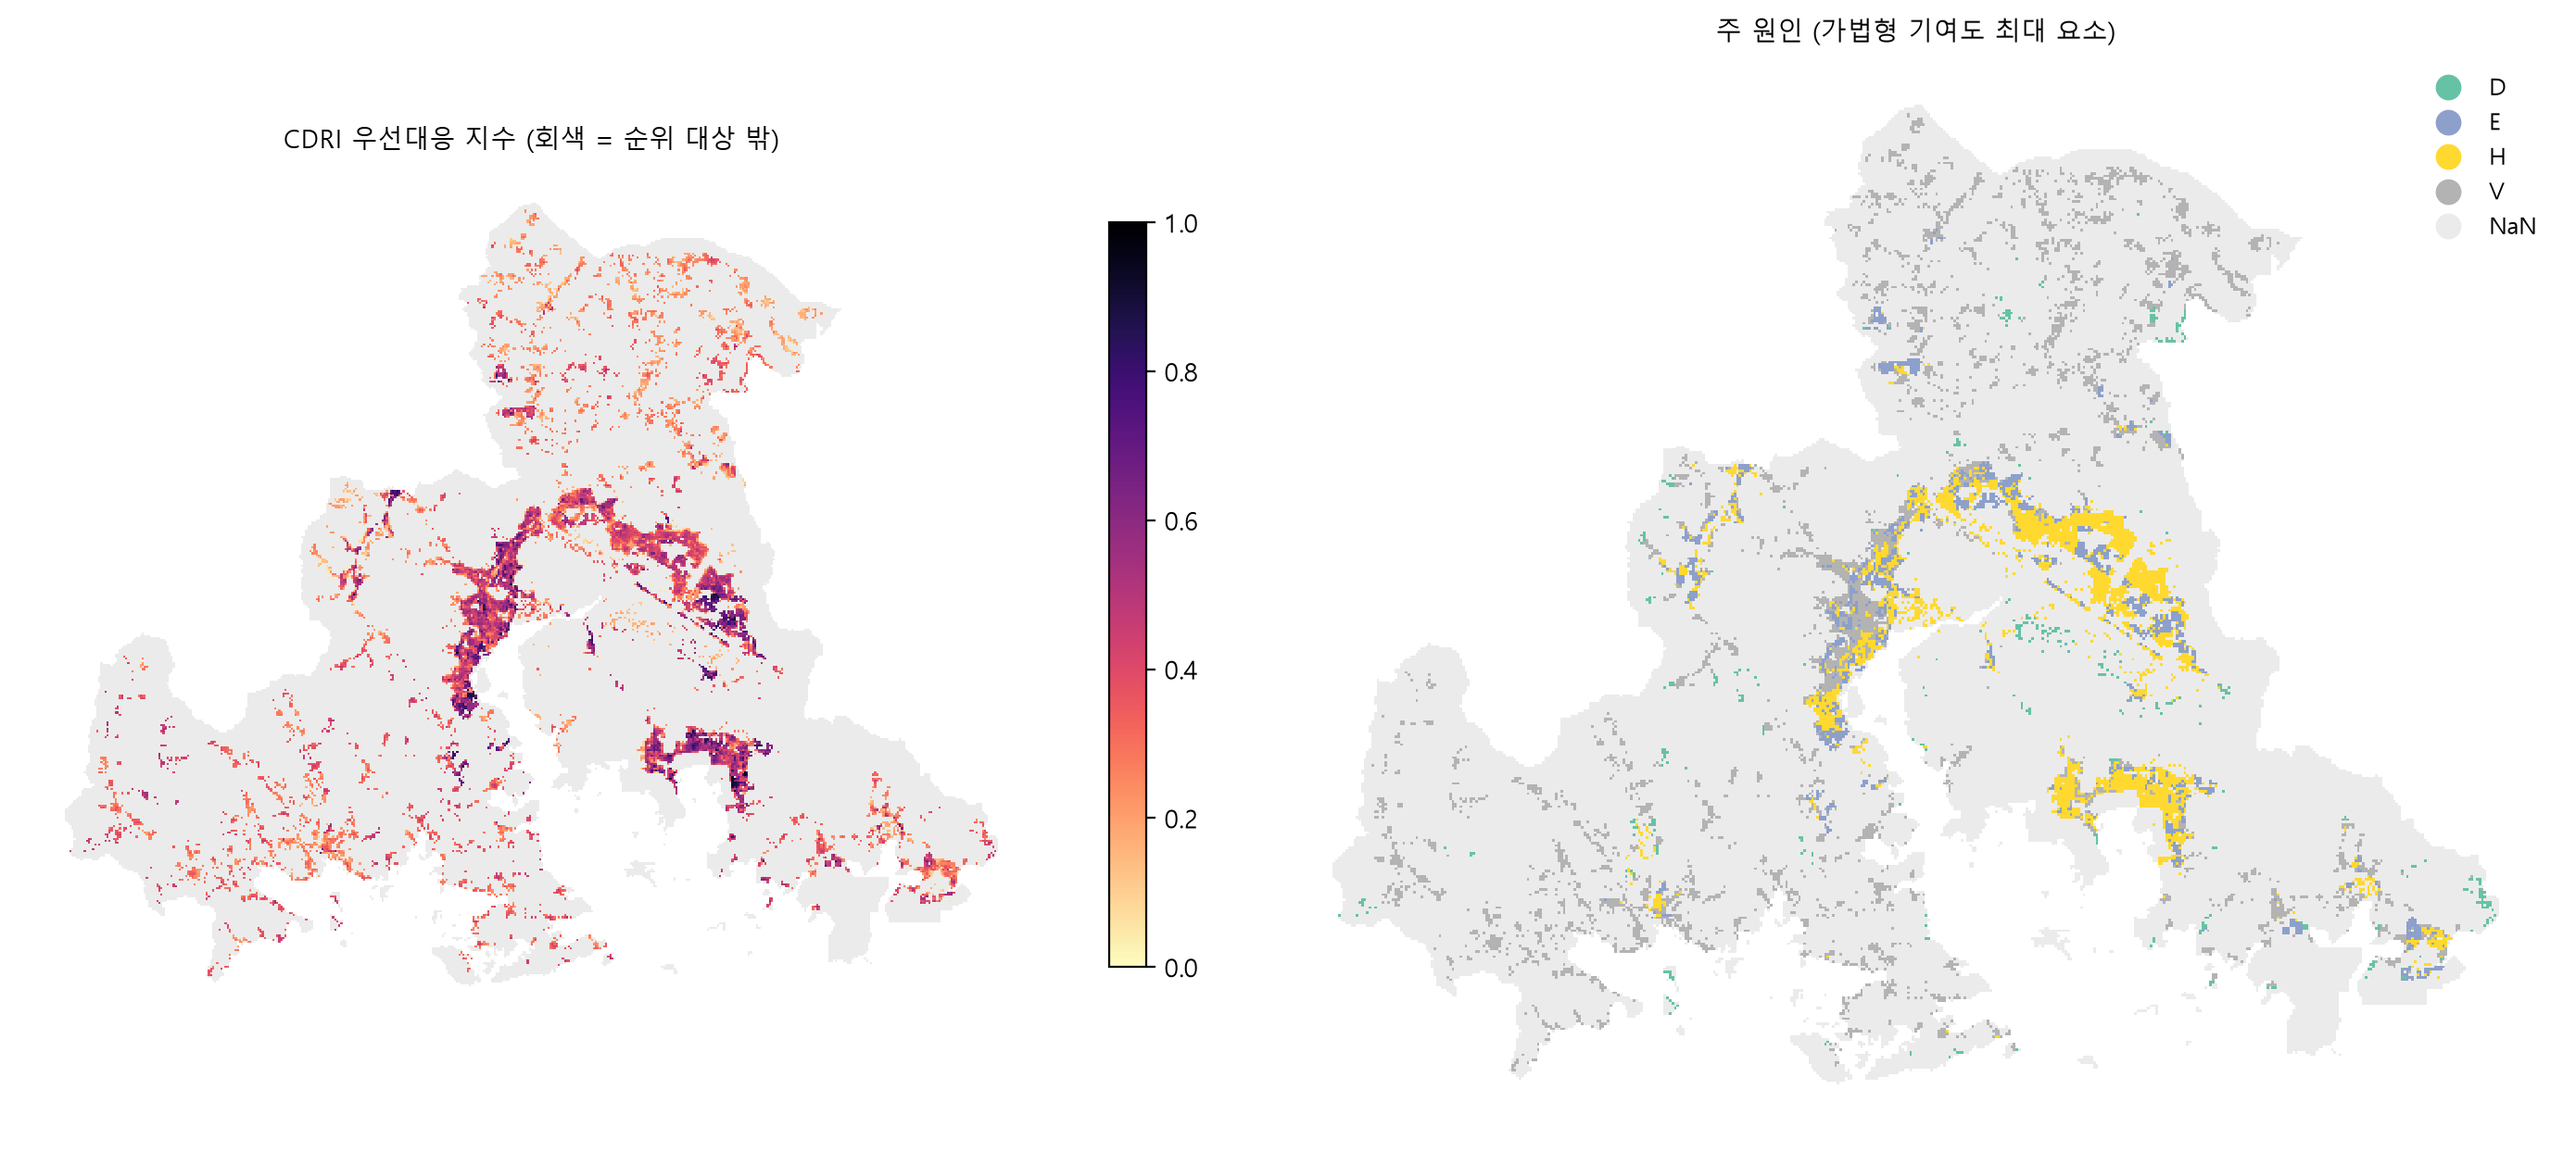
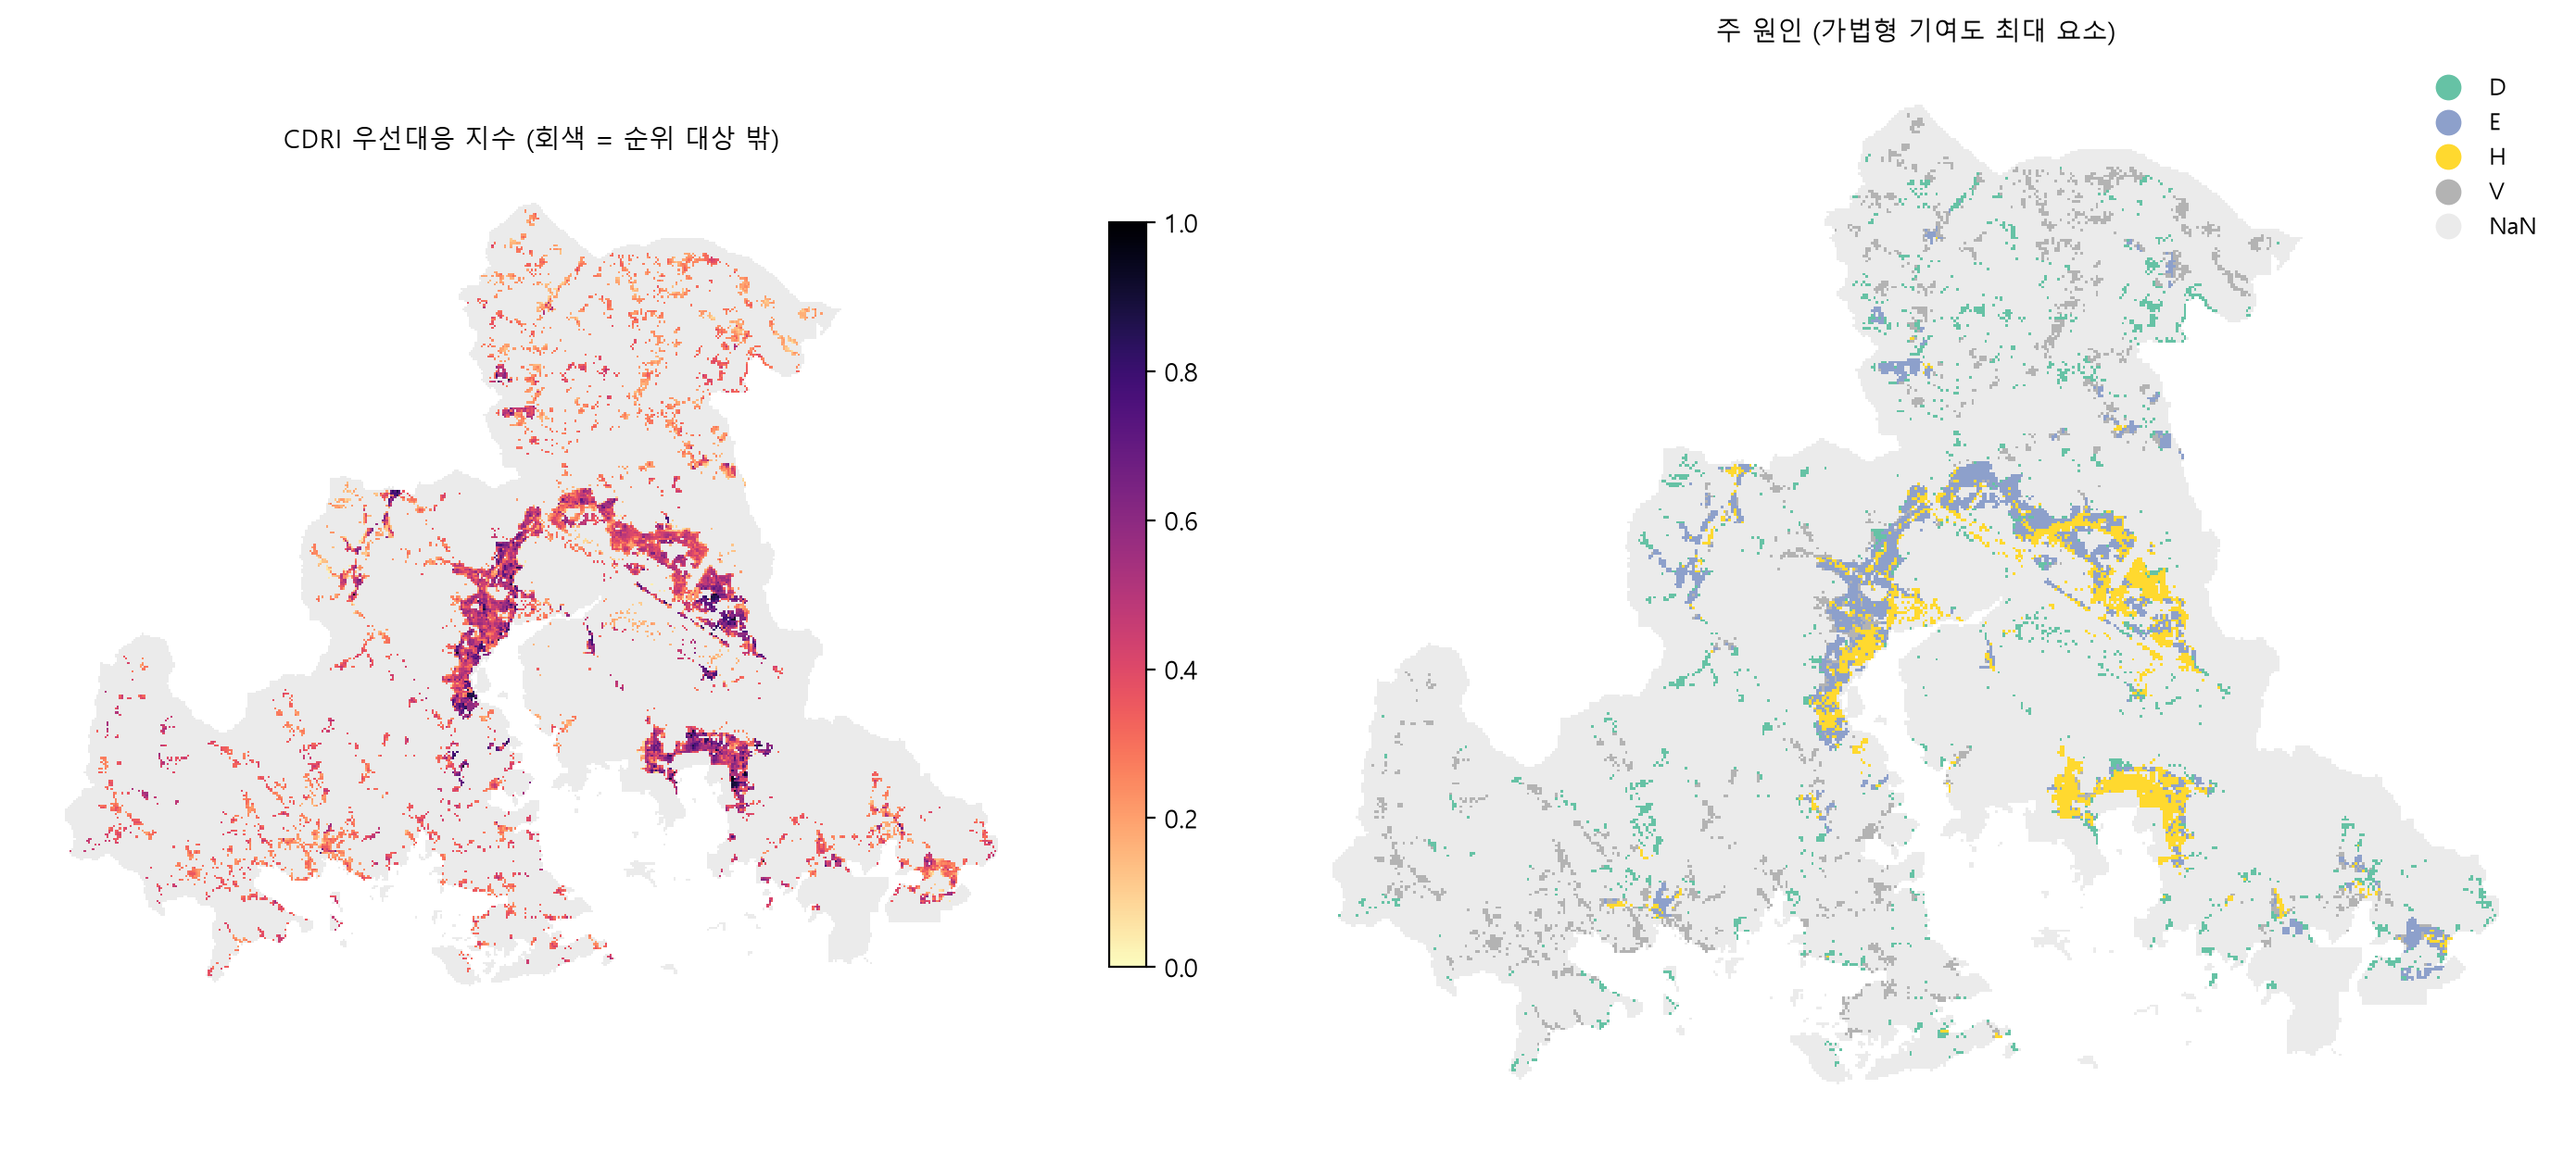
pipeline: 우선대응 지역 정책화(H08) + CDRI 주 원인 정의 정정
- src/stages/h08_policy.py: 300m NMS 로 20곳 선정, 주 원인별 트리거-행동 계약 부여.
  트리거는 시 SOP 대신 기상청 호우특보 공식 기준(3h 60/90mm)을 쓴다.
  민원 홀드아웃은 비공개라 최종 1회 평가를 수행하지 않고 holdout_evaluated=false 로 기록
- src/stages/h07_cdri.py: 주 원인을 가법형 구성비 최댓값이 아니라 **최대 백분위 요소**로 정정
  (ANALYSIS_PLAN §5). 구성비를 쓰면 분포가 치우친 인구(E)가 19/20 을 차지해 조치가 한쪽으로 쏠렸다.
  정정 후 전체 분포 V 2,966 / E 2,729 / H 2,342 / D 2,165, 선정 20곳은 E12·H4·V2·D2
- config: policy.nms_radius_m, h08_top20_policy 노드 재정의 (민원 노드 의존 제거)

선정 결과: 20곳, 강건 공통집합 7곳 포함, 인구 8,714명 중 65세 이상 3,234명,
대피소 2km 밖 0곳. 진해 9 / 마산합포 5 / 마산회원 2 / 성산 2 / 의창 1
tier 모드이므로 표의 rank 는 표시 순서이며 정밀 순위를 주장하지 않는다

테스트 78건 통과

diff --git a/src/stages/h08_policy.py b/src/stages/h08_policy.py
@@ -1,0 +1,189 @@
+"""H08 우선대응 지역 정책화 — 정책카드는 '문장'이 아니라 트리거-행동 계약이다 (RESEARCH_PLAN §0-6).
+
+CDRI 가 위험군(tier) 모드이면 정밀 순위를 주장하지 않는다. 그 경우 표의 `rank` 는
+표시 순서일 뿐이며 `robust_core` 와 `risk_tier` 가 실제 근거다.
+"""
+
+from __future__ import annotations
+
+import json
+from pathlib import Path
+from typing import Any
+
+from src.pipeline.runner import StageContext, StageFailed
+from src.utils.config import PROJECT_ROOT
+
+# 공식 기준으로 대체한 트리거 (docs/WORK_PLAN_0914.md §2-4).
+# 시 SOP 확인 전 임의의 시간기준(24h·6h)을 쓰지 않고 기상청 호우특보 발효 기준을 쓴다.
+TRIGGER_WATCH = "기상청 호우주의보 (3시간 60mm 또는 12시간 110mm 예상)"
+TRIGGER_WARNING = "기상청 호우경보 (3시간 90mm 또는 12시간 180mm 예상)"
+
+# 주 원인(가법형 기여도 최대 요소)별 행동 계약. 하나의 격자에 하나의 1순위 조치를 준다.
+ACTION_BY_CAUSE: dict[str, dict[str, str]] = {
+    "H": {
+        "recommended_action": "우기 전 빗물받이·측구 준설, 호우주의보 시 이동식 펌프·차수판 배치 지점으로 지정",
+        "owner_department": "창원시 하수도사업소 (해당 하수처리구역 관할)",
+        "required_resource": "기존 준설 인력 + 이동식 펌프 1대",
+        "cost_band": "소규모 정비 (기존 정비사업 내 우선순위 조정)",
+        "kpi": "우기 전 준설 완료율, 호우 후 해당 격자 침수신고 건수",
+    },
+    "E": {
+        "recommended_action": "호우경보 시 지하공간·지하차도 출입통제와 도로 우회 안내를 우선 적용할 구간으로 지정",
+        "owner_department": "창원시 재난안전대책본부 (구청 안전건설과 협조)",
+        "required_resource": "기존 통제 인력 + 안내표지",
+        "cost_band": "기존 인력",
+        "kpi": "통제 선행시간(경보 발효 후 통제까지), 침수 도로 고립 신고 건수",
+    },
+    "V": {
+        "recommended_action": "고령가구 사전 연락 명단을 갱신하고 호우주의보 시 1차 연락 대상으로 지정",
+        "owner_department": "행정복지센터·복지정책과",
+        "required_resource": "기존 방문건강관리 인력",
+        "cost_band": "기존 인력",
+        "kpi": "주의보 발효 후 연락 완료율, 대피 지원 요청 처리시간",
+    },
+    "D": {
+        "recommended_action": "반경 2km 내 임시 대피장소 추가 지정과 방재기관 접근로 사전 점검",
+        "owner_department": "창원시 재난안전대책본부",
+        "required_resource": "기존 시설 협약 (학교·경로당 등)",
+        "cost_band": "기존 인력",
+        "kpi": "신규 지정 대피장소 수, 최근접 대피장소까지 거리 단축량",
+    },
+}
+POLICY_COLUMNS = [
+    "rank", "grid_id", "district", "neighborhood", "cdri", "risk_tier", "in_robust_core",
+    "hazard_contribution", "exposure_contribution", "vulnerability_contribution",
+    "capacity_deficit_contribution", "primary_cause", "confidence_grade",
+    "trigger", "action_timing", "recommended_action", "owner_department",
+    "required_resource", "cost_band", "kpi", "human_approval_required",
+    "pop_total", "elderly_estimate", "shelter_dist_m", "pump_dist_m",
+    "forecast_issued_at", "forecast_valid_to", "evidence_run_id",
+]
+DONG_NAME_FILE = "data/external/adm_dong_names.csv"
+GU_NAMES = {"38111": "의창구", "38112": "성산구", "38113": "마산합포구", "38114": "마산회원구", "38115": "진해구"}
+
+
+def _suppress_neighbours(frame, radius_m: float, limit: int):
+    """300m NMS — 같은 침수 구역이 인접 격자로 여러 번 뽑히는 것을 막는다 (ANALYSIS_PLAN §5)."""
+    import numpy as np
+
+    ordered = frame.sort_values("cdri", ascending=False)
+    xy = np.column_stack([ordered.geometry.centroid.x, ordered.geometry.centroid.y])
+    chosen: list[int] = []
+    for i in range(len(ordered)):
+        if all(np.hypot(*(xy[i] - xy[j])) >= radius_m for j in chosen):
+            chosen.append(i)
+            if len(chosen) == limit:
+                break
+    return ordered.iloc[chosen].copy()
+
+
+def top20(ctx: StageContext) -> dict[str, Any]:
+    """통과: 선정된 격자마다 트리거·담당·조치·KPI 가 모두 채워져 있어야 한다.
+    비어 있으면 그 격자를 표에서 뺀다. 민원 홀드아웃은 비공개라 최종 1회 평가를 수행하지 않고
+    `holdout_evaluated=false` 로 기록한다 (docs/decisions/001)."""
+    import geopandas as gpd
+    import pandas as pd
+
+    p = ctx.params
+    top_n = int(p["cdri.top_n"])
+    radius = float(p["policy.nms_radius_m"])
+
+    cdri = gpd.read_file(PROJECT_ROOT / "data/processed/layers/cdri.gpkg", layer="cdri")
+    formula = json.loads((PROJECT_ROOT / "artifacts/evaluation/primary_formula_manifest.json").read_text(encoding="utf-8"))
+    ranking_mode = formula.get("ranking_mode", "rank")
+    features = pd.read_parquet(
+        PROJECT_ROOT / "data/processed/features/grid_features.parquet", columns=["grid_id", "pump_dist_m"]
+    )
+    cdri = cdri.merge(features, on="grid_id", how="left")
+
+    m: dict[str, Any] = {
+        "ranking_mode": ranking_mode,
+        "n_candidates": int(len(cdri)),
+        "nms_radius_m": radius,
+        "primary_formula": formula.get("primary_formula"),
+    }
+
+    selected = _suppress_neighbours(cdri, radius, top_n)
+    m["n_selected"] = int(len(selected))
+    m["n_in_robust_core"] = int(selected["in_robust_core"].sum())
+
+    names_path = PROJECT_ROOT / DONG_NAME_FILE
+    names = (
+        dict(zip(*pd.read_csv(names_path, encoding="utf-8-sig", dtype={"adm_cd": str})[["adm_cd", "adm_name"]].values.T))
+        if names_path.exists() else {}
+    )
+    m["dong_names_available"] = bool(names)
+
+    out = selected.copy()
+    out["district"] = out["gu_code"].astype(str).map(GU_NAMES)
+    out["neighborhood"] = out["adm_cd"].astype(str).map(names) if names else "행정동명 미확보"
+    out["elderly_estimate"] = (out["pop_total"] * out["elderly_ratio"]).round(0)
+    out["hazard_contribution"] = out["h_contribution"].round(4)
+    out["exposure_contribution"] = out["e_contribution"].round(4)
+    out["vulnerability_contribution"] = out["v_contribution"].round(4)
+    out["capacity_deficit_contribution"] = out["d_contribution"].round(4)
+    # 신뢰등급: A(직접 관측+검증) 는 침수흔적 검증 전까지 부여하지 않는다.
+    out["confidence_grade"] = "B"
+    out.loc[out["neighborhood"].eq("행정동명 미확보"), "confidence_grade"] = "C"
+    out["trigger"] = TRIGGER_WATCH + " → " + TRIGGER_WARNING
+    out["action_timing"] = "우기 전 상시 + 호우주의보 발효 시"
+    for field in ("recommended_action", "owner_department", "required_resource", "cost_band", "kpi"):
+        out[field] = out["primary_cause"].map(lambda c: ACTION_BY_CAUSE.get(c, {}).get(field, ""))
+    out["human_approval_required"] = "통제·대피 결정은 법적 권한자가 공식 예보·현장확인 후 판단"
+    out["forecast_issued_at"] = None
+    out["forecast_valid_to"] = None
+    out["evidence_run_id"] = ctx.run_id
+    out["rank"] = range(1, len(out) + 1)
+    out["cdri"] = out["cdri"].round(4)
+    out["shelter_dist_m"] = out["shelter_dist_m"].round(0)
+    out["pump_dist_m"] = out["pump_dist_m"].round(0)
+
+    required = ["trigger", "recommended_action", "owner_department", "kpi"]
+    complete = out[required].notna().all(axis=1) & (out[required] != "").all(axis=1)
+    m["n_dropped_incomplete"] = int((~complete).sum())
+    out = out[complete].copy()
+    out["rank"] = range(1, len(out) + 1)
+
+    if out.empty:
+        raise StageFailed(
+            "정책카드를 채운 격자가 하나도 없다",
+            [{"code": "no_policy_card", "detail": "주 원인별 행동 계약 매핑 확인"}], metrics=m,
+        )
+
+    m["selected"] = [
+        {
+            "rank": int(r.rank), "grid_id": r.grid_id, "district": r.district,
+            "cdri": float(r.cdri), "risk_tier": r.risk_tier, "primary_cause": r.primary_cause,
+            "robust_core": int(r.in_robust_core), "pop_total": int(r.pop_total),
+            "elderly_estimate": int(r.elderly_estimate),
+        }
+        for r in out.itertuples()
+    ]
+    m["cause_mix"] = {k: int(v) for k, v in out["primary_cause"].value_counts().items()}
+    m["people_covered"] = {
+        "pop_total": int(out["pop_total"].sum()),
+        "elderly_estimate": int(out["elderly_estimate"].sum()),
+        "shelter_over_2km": int((out["shelter_dist_m"] > 2000).sum()),
+    }
+
+    csv = next(o for o in ctx.outputs if o.suffix == ".csv")
+    csv.parent.mkdir(parents=True, exist_ok=True)
+    out[POLICY_COLUMNS].to_csv(csv, index=False, encoding="utf-8-sig")
+
+    evaluation = next(o for o in ctx.outputs if o.suffix == ".json")
+    evaluation.parent.mkdir(parents=True, exist_ok=True)
+    evaluation.write_text(json.dumps({
+        "holdout_evaluated": False,
+        "reason": "민원 3년 자료 비공개 (정보공개법 §9①6호) — docs/decisions/001-layer2-design.md",
+        "evaluation_count": 0,
+        "substitute_validation": "2026-09-14 침수흔적도 수령 후 Layer 1 ROC-AUC·사후검증으로 대체 예정",
+        "ranking_mode": ranking_mode,
+        "ranking_claim": (
+            "정밀 순위를 주장하지 않는다. 위험군과 강건 공통집합으로만 보고한다"
+            if ranking_mode == "tier" else "정밀 순위 보고 가능"
+        ),
+        "n_selected": int(len(out)),
+        "n_in_robust_core": int(out["in_robust_core"].sum()),
+        "run_id": ctx.run_id,
+    }, ensure_ascii=False, indent=2), encoding="utf-8")
+    return m

diff --git a/src/stages/h07_cdri.py b/src/stages/h07_cdri.py
@@ -155,11 +155,18 @@ def cdri(ctx: StageContext) -> dict[str, Any]:
         "note": "Moreira et al.(2021) 은 등급화가 가장 민감하다고 지적한다. 두 방식을 병기한다",
     }
 
-    # ── 기여도 (가법형 구성비) ────────────────────────────────────────────
+    # ── 기여도와 주 원인 ──────────────────────────────────────────────────
+    # 구성비(가법형)와 백분위를 모두 낸다. **주 원인은 최대 백분위 요소**다 (ANALYSIS_PLAN §5).
+    # 구성비의 최댓값을 쓰면 분포가 치우친 요소(인구)가 거의 항상 이겨서 조치가 한쪽으로 쏠린다.
     shares = L.contribution_share(matrix, weights["equal"], COMPONENTS)
     for key, values in shares.items():
         sub[f"{key.lower()}_contribution"] = values
-    sub["primary_cause"] = np.asarray(COMPONENTS)[np.column_stack(list(shares.values())).argmax(axis=1)]
+    percentiles = np.column_stack([
+        pd.Series(matrix[:, i]).rank(pct=True).to_numpy() for i in range(len(COMPONENTS))
+    ])
+    for i, key in enumerate(COMPONENTS):
+        sub[f"{key.lower()}_percentile"] = percentiles[:, i]
+    sub["primary_cause"] = np.asarray(COMPONENTS)[percentiles.argmax(axis=1)]
 
     sub["cdri"] = primary_scaled
     sub["cdri_raw"] = primary
@@ -176,6 +183,7 @@ def cdri(ctx: StageContext) -> dict[str, Any]:
         "p50": round(float(sub["cdri"].median()), 4),
         "p90": round(float(sub["cdri"].quantile(0.9)), 4),
         "primary_cause_counts": {k: int(v) for k, v in sub["primary_cause"].value_counts().items()},
+        "primary_cause_rule": "구성요소 백분위가 가장 높은 것 (ANALYSIS_PLAN §5). 구성비 최댓값은 분포가 치우친 요소가 항상 이겨서 쓰지 않는다",
     }
     # 강건성 판정. 미달이면 **실패가 아니라 분기**다 — 하네스 H07 on_fail 은 goto 없이
     # "정밀 순위 대신 위험군(tier) 모드로 보고"라고 정했다. 임계값을 낮추는 재튜닝은 금지이므로
@@ -210,6 +218,7 @@ def cdri(ctx: StageContext) -> dict[str, Any]:
         "risk_tier", "jenks_tier", "primary_cause", "in_robust_core",
         "H_scaled", "E_scaled", "V_scaled", "D_scaled",
         "h_contribution", "e_contribution", "v_contribution", "d_contribution",
+        "h_percentile", "e_percentile", "v_percentile", "d_percentile",
         "L1", "E", "V", "capacity_deficit", "pop_total", "houses", "elderly_ratio",
         "shelter_dist_m", "vulnerability_grade", "geometry",
     ]

diff --git a/src/stages/pending.py b/src/stages/pending.py
@@ -36,12 +36,6 @@ def layer2_sewer(ctx: StageContext) -> dict[str, Any]:
     _todo("layer2_sewer")
 
 
-def top20(ctx: StageContext) -> dict[str, Any]:
-    """top20.csv(격자별 트리거·근거 3개·신뢰등급·담당·조치·KPI) + 최종 홀드아웃 1회 평가.
-    행동 트리거·실행 주체 없는 항목은 제외. metrics: n_top20, holdout_metrics."""
-    _todo("top20")
-
-
 def result_review(ctx: StageContext) -> dict[str, Any]:
     """CDRI 분포·TOP 20 지도를 A1 침수예상도·A7 홍수위험지도와 대조.
     통과: 기여도 합 100%, 동 편중 없음, 중첩률 보고.
